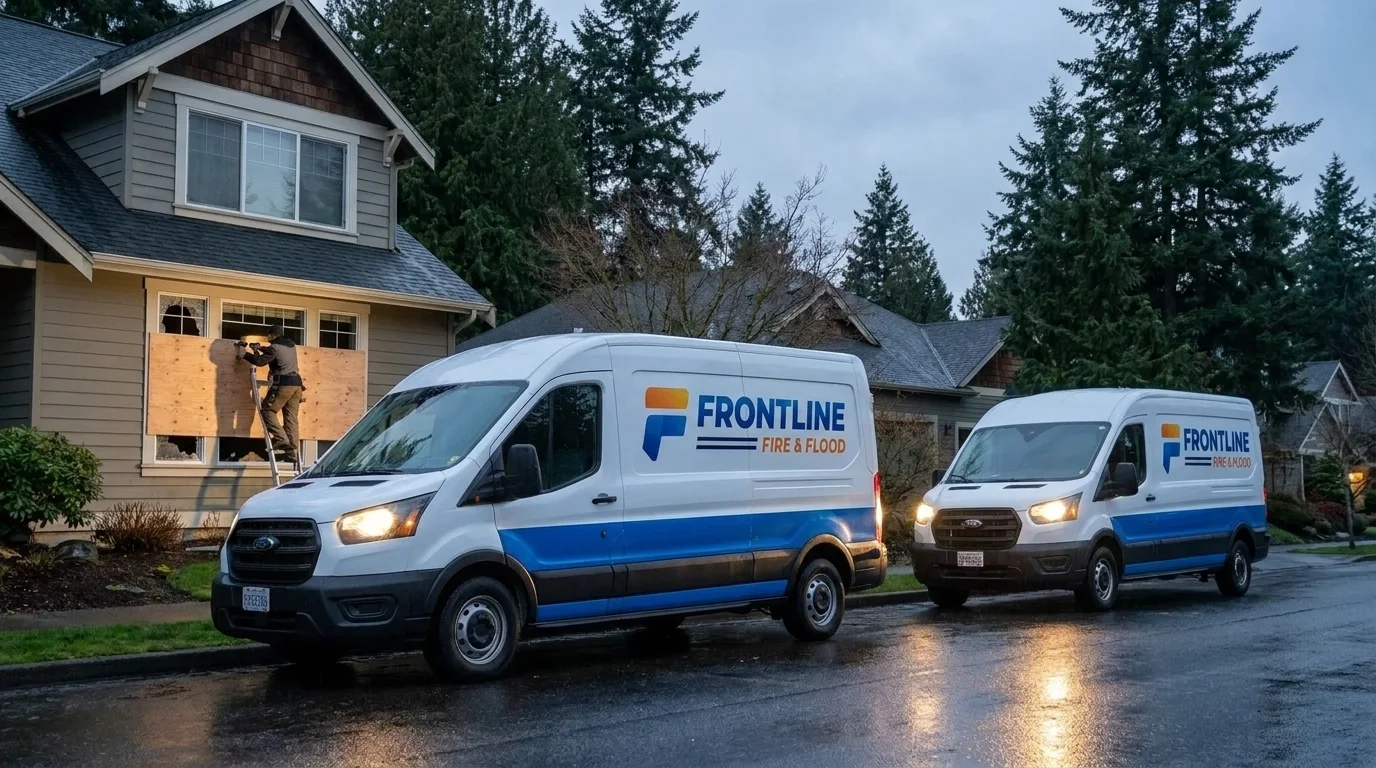
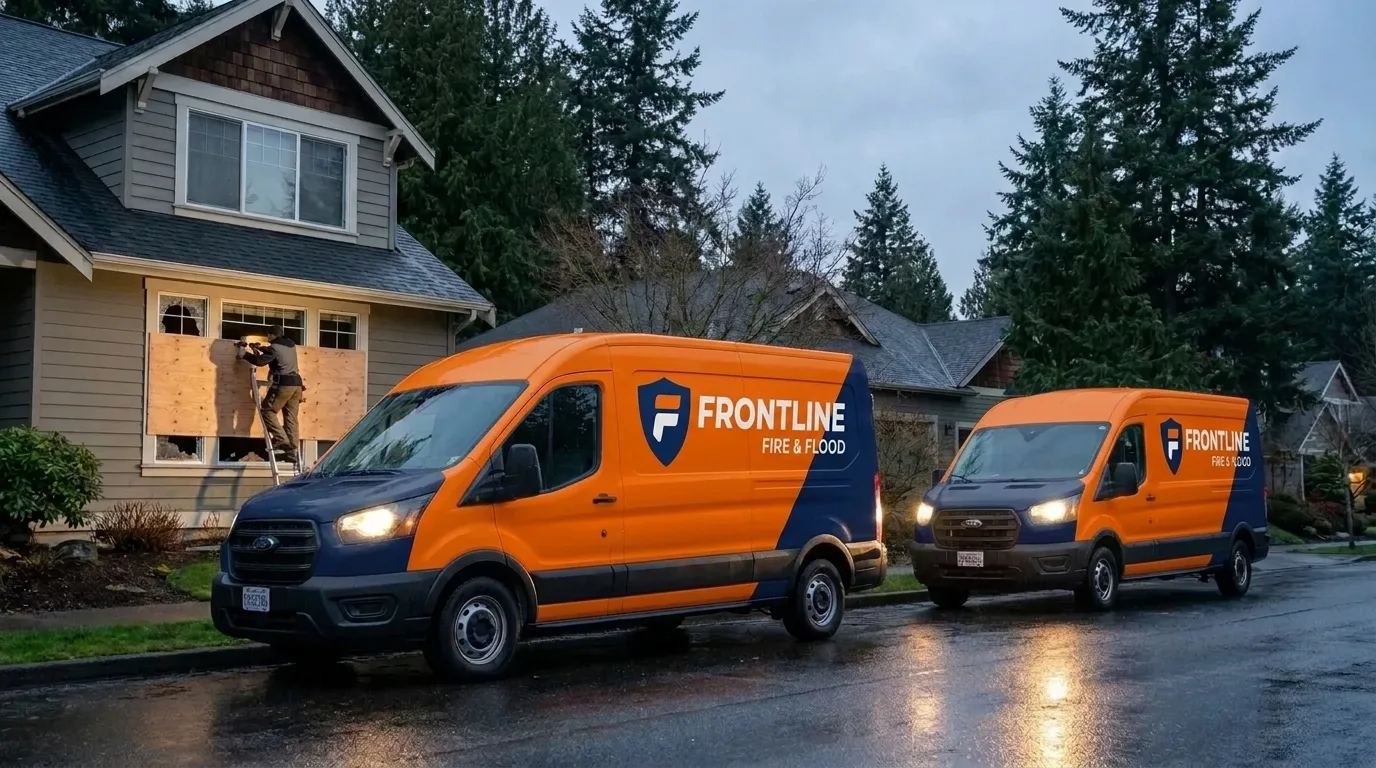
frontline design pass: 4 service images re-liveried to the real orange/navy fleet (storm, board-up, sewage, contents; real photos untouched), orange service-card arrows, subtle wordmark-style gradient on primary buttons, truthful team-photo alt

diff --git a/src/styles/global.css b/src/styles/global.css
@@ -52,7 +52,7 @@
      rung), never primary.DEFAULT — DEFAULT is the client's raw brand hex and
      may be a light gold/lime/sky that white cannot sit on. */
   .btn-primary {
-    @apply btn bg-primary-600 text-white hover:bg-dark-700;
+    @apply btn bg-gradient-to-br from-primary-500 to-primary-700 text-white hover:from-primary-600 hover:to-primary-800;
   }
   .btn-accent {
     @apply btn bg-accent text-white hover:opacity-90;
